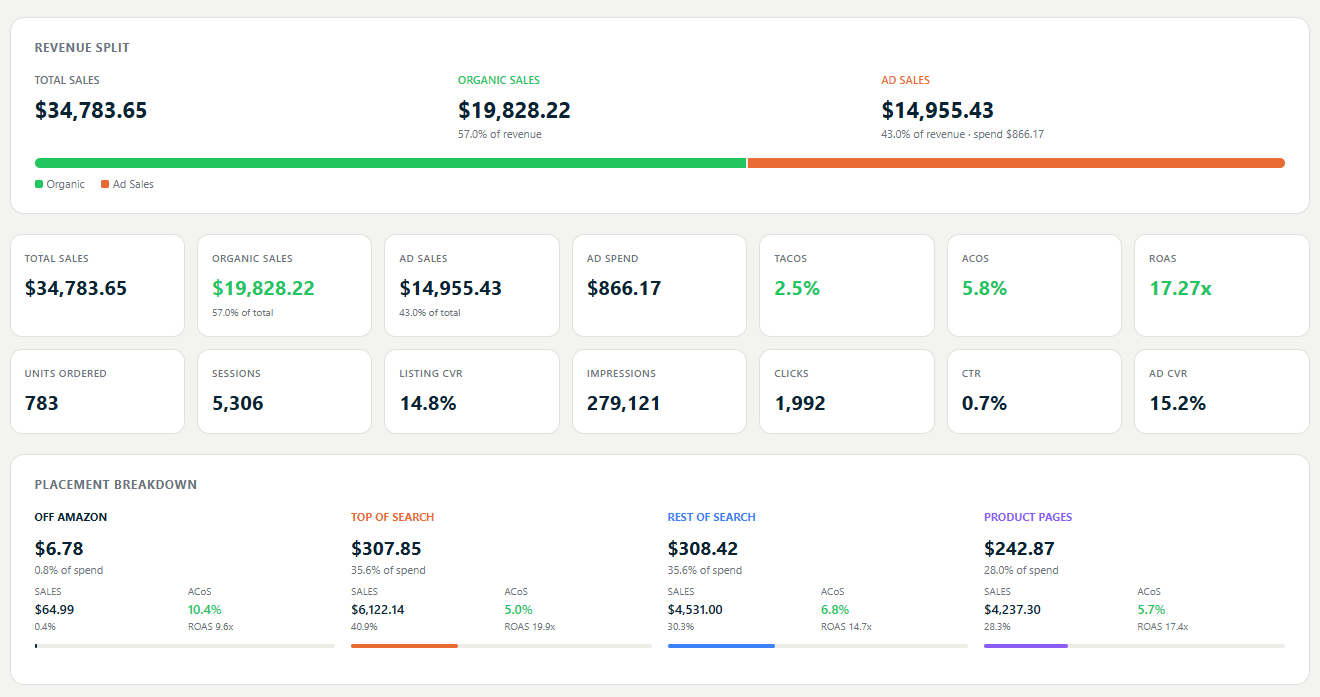
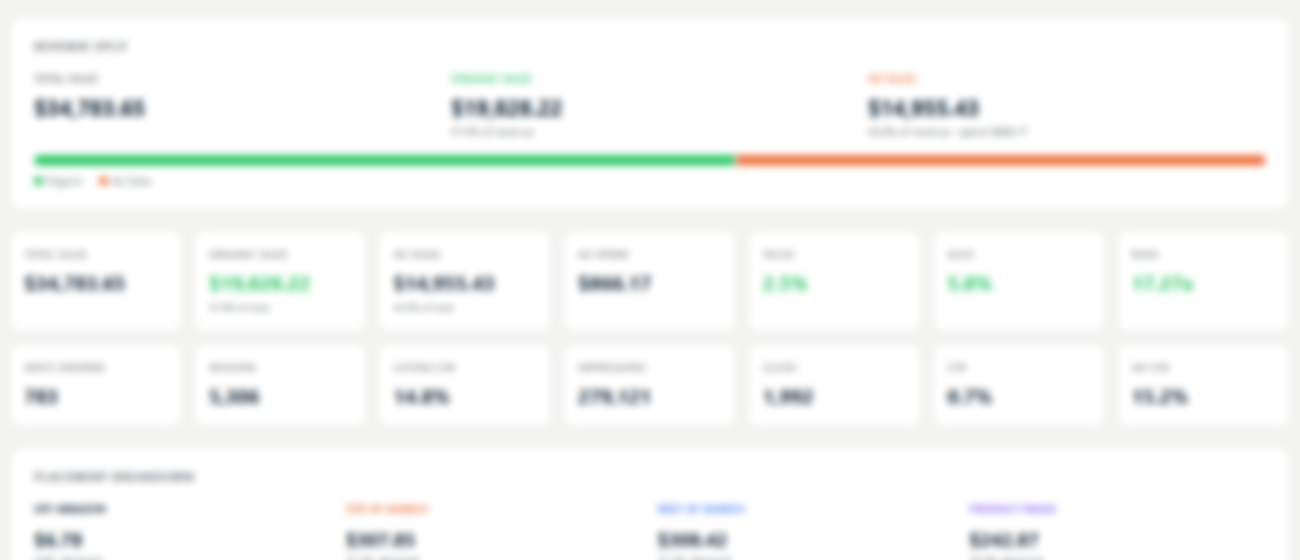
Landing: uniform-height, blurred tool screenshots
Cropped all three to 1300x560 (top-anchored) so the 3-up grid is even,
and blurred the figures — the dashboards read as real analytics tools
without exposing any account numbers.

diff --git a/app/page.tsx b/app/page.tsx
@@ -424,13 +424,13 @@ export default function Home() {
             </p>
             <div style={{ display: "grid", gridTemplateColumns: "repeat(auto-fit,minmax(280px,1fr))", gap: 18 }}>
               {[
-                { src: "/account-performance.png", w: 1320, h: 697, alt: "Account Performance dashboard — revenue split, ad and organic KPIs, and placement breakdown", cap: "Account Performance" },
-                { src: "/search-term-dashboard.png", w: 1330, h: 593, alt: "Search Term Dashboard — spend, sales, ACoS, ROAS and weekly spend trend", cap: "Search Term Dashboard" },
-                { src: "/ppc-intent-analysis.png", w: 1418, h: 786, alt: "PPC Intent Analysis — wasted-spend detection and match-type efficiency", cap: "PPC Intent Analysis" },
+                { src: "/account-performance.png", alt: "Account Performance dashboard — revenue split and ad/organic KPIs", cap: "Account Performance" },
+                { src: "/search-term-dashboard.png", alt: "Search Term Dashboard — spend, sales, ACoS, ROAS and weekly spend trend", cap: "Search Term Dashboard" },
+                { src: "/ppc-intent-analysis.png", alt: "PPC Intent Analysis — wasted-spend detection and match-type efficiency", cap: "PPC Intent Analysis" },
               ].map(img => (
                 <figure key={img.src} style={{ margin: 0 }}>
                   <div style={{ borderRadius: 10, border: `1px solid ${border}`, overflow: "hidden", boxShadow: "0 12px 34px rgba(10,35,51,0.10)" }}>
-                    <Image src={img.src} width={img.w} height={img.h} alt={img.alt}
+                    <Image src={img.src} width={1300} height={560} alt={img.alt}
                       style={{ width: "100%", height: "auto", display: "block" }} />
                   </div>
                   <figcaption style={{ fontSize: 11.5, color: muted, textAlign: "center", margin: "8px 0 0" }}>{img.cap}</figcaption>
